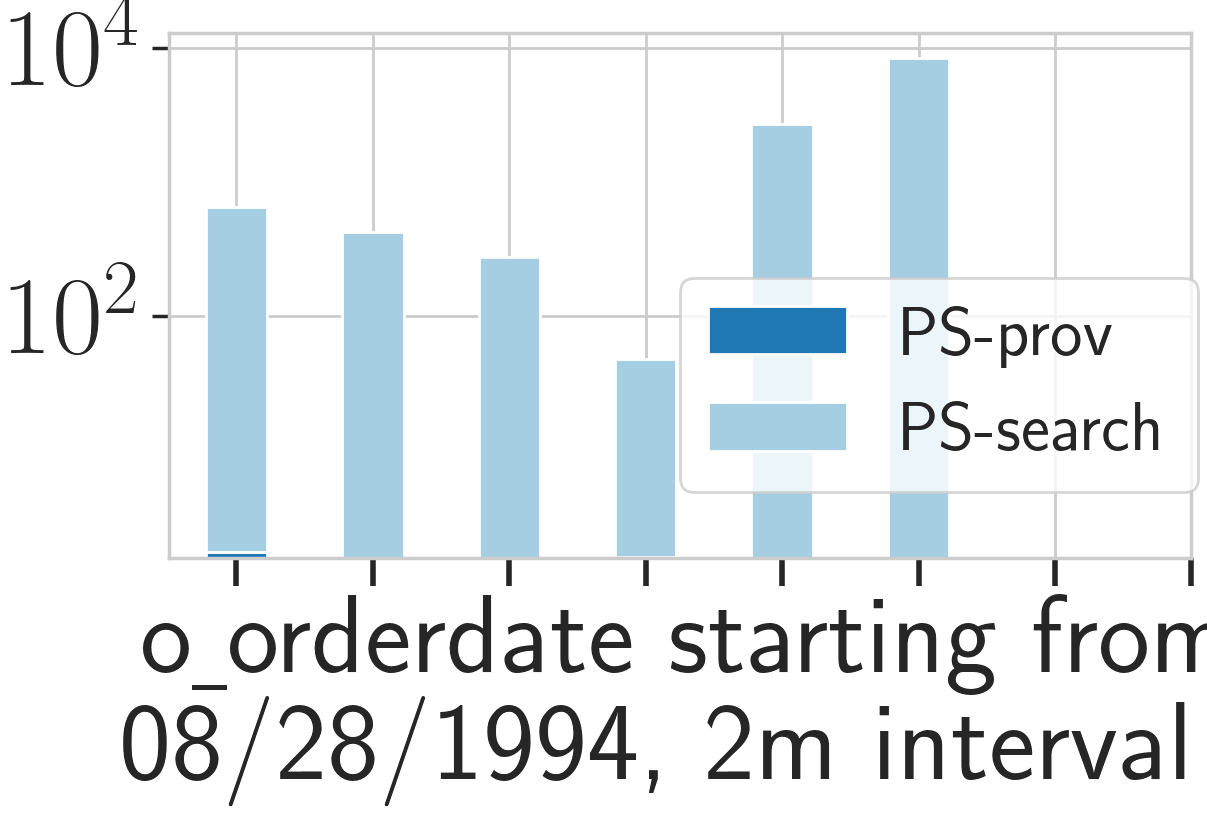
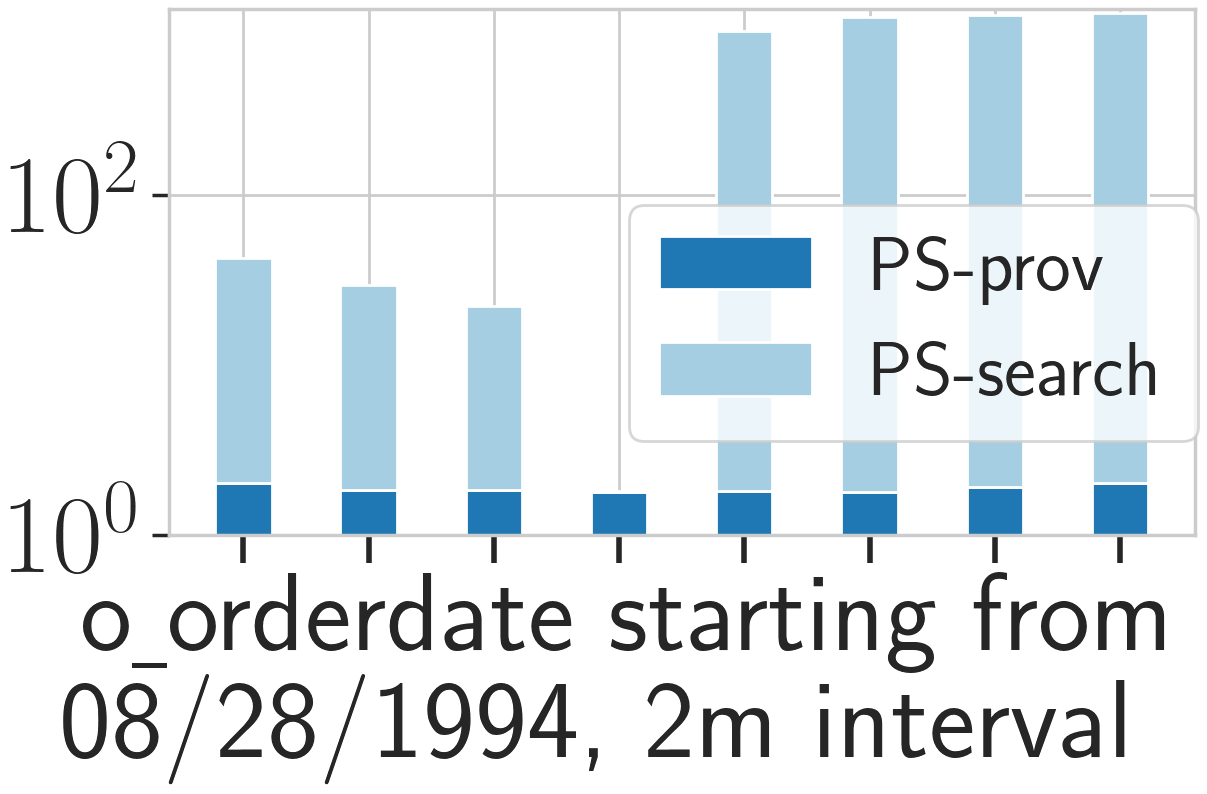
100m query selectivity q3 refine

Changed region(s): [[0.0, 0.0, 1.0, 0.9673], [0.0, 0.1814, 0.1226, 0.3023], [0.0, 0.6045, 0.1226, 0.7254]]

diff --git a/Experiment/TPCH/100M/query_selectivity2/q3_refine2/fig.py b/Experiment/TPCH/100M/query_selectivity2/q3_refine2/fig.py
@@ -83,12 +83,13 @@ def run(query, size, constraint):
     #         color=color[3], label=label[3])
 
     plt.xticks(np.arange(0, 8), x_list, rotation=0, fontsize=80, weight='bold')
-    plt.yticks(fontsize=80, weight='bold')
+    plt.yticks([1, 10, 100, 1000], [1, 10, 100, 1000], fontsize=80, weight='bold')
+    plt.ylim(1)
 
-
-    plt.xlabel(r'o\underline{ }orderdate starting from \\08/28/1994, 2m interval', fontsize=80, weight='bold')
+    plt.xlabel(r'o\underline{ }orderdate starting from \\08/28/1994, 2m interval',
+               fontsize=80, weight='bold').set_position((0.44, -0.1))
     plt.yscale('log')
-    plt.legend(loc='upper right', bbox_to_anchor=(1.04, 0.60), fontsize=50)
+    plt.legend(loc='upper right', bbox_to_anchor=(1.04, 0.7), fontsize=55)
     # plt.legend(loc='upper left', bbox_to_anchor=(-0.05, 1.07), fontsize=65)
     plt.tight_layout()
     fig_path = "query_selectivity_q" + str(query) + "_" + size + "_" + constraint + ".png"

diff --git a/Experiment/TPCH/100M/query_selectivity2/q3_refine2/query_change_100M_q3.py b/Experiment/TPCH/100M/query_selectivity2/q3_refine2/query_change_100M_q3.py
@@ -48,7 +48,7 @@ def run_constraint(c):
     result_output = open(result_output_file, "w")
     result_output.write("selection file, result\n")
 
-    for i in range(0, 7):
+    for i in range(0, 8):
         print("query", i)
         query_file = query_file_prefix + str(i) + ".json"
         print("========================== provenance search ===================================")
